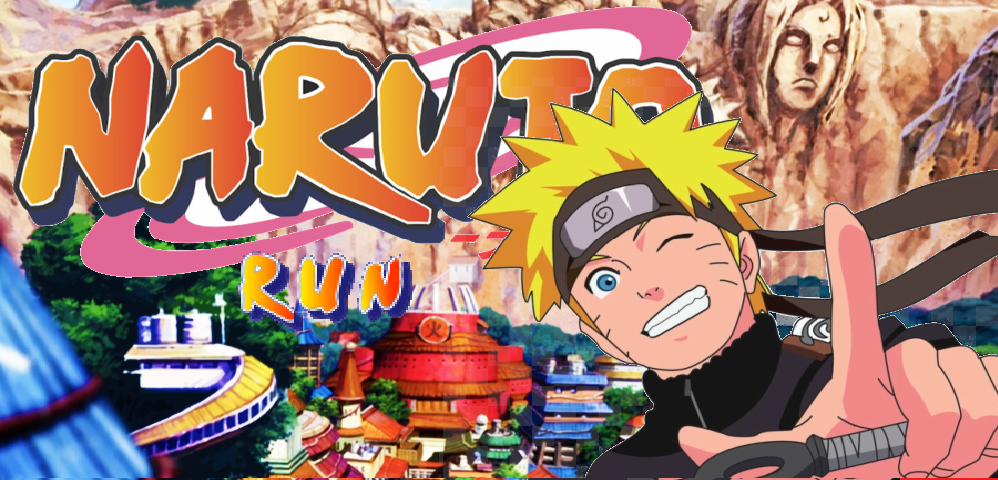
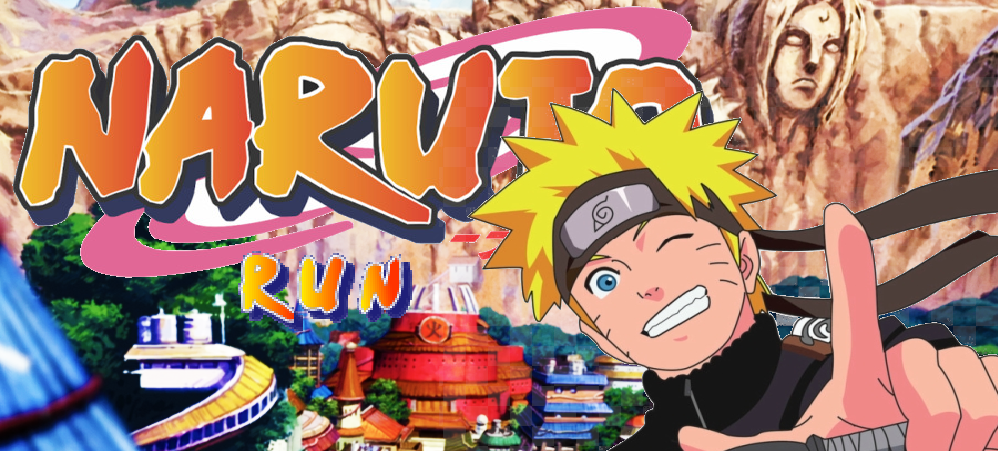
Tela inicial atualizada

diff --git a/screen.py b/screen.py
@@ -14,7 +14,7 @@ def init_screen(screen):
     clock = pygame.time.Clock()
 
     # Carrega o fundo da tela inicial
-    background = pygame.image.load(path.join('tela3.png')).convert()
+    background = pygame.image.load(path.join('Inicio4.png')).convert()
     background_rect = background.get_rect()
 
     running = True
